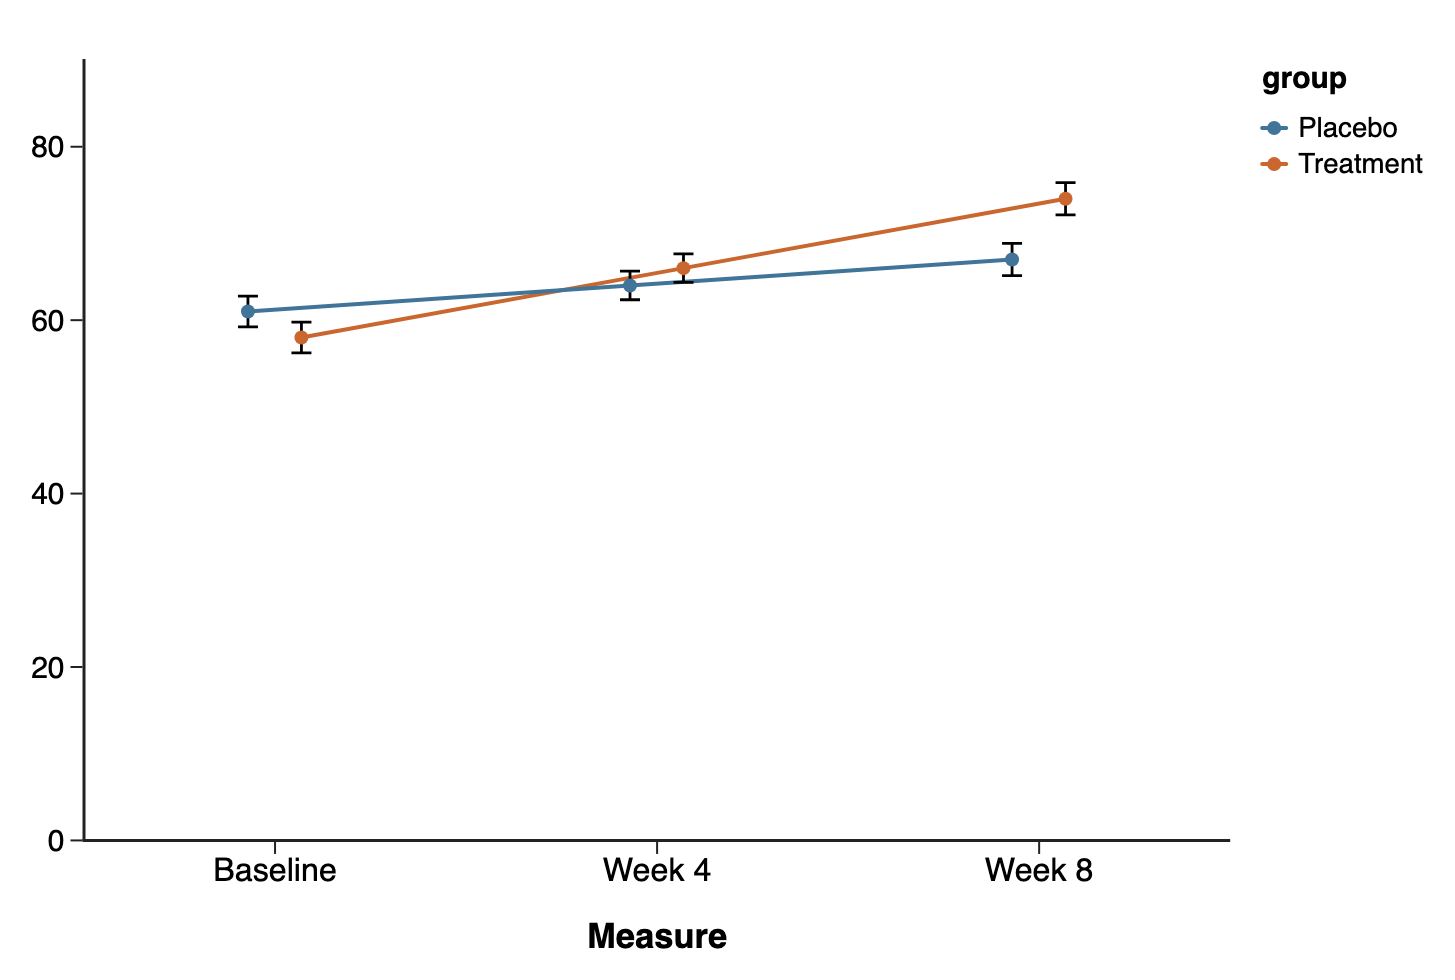
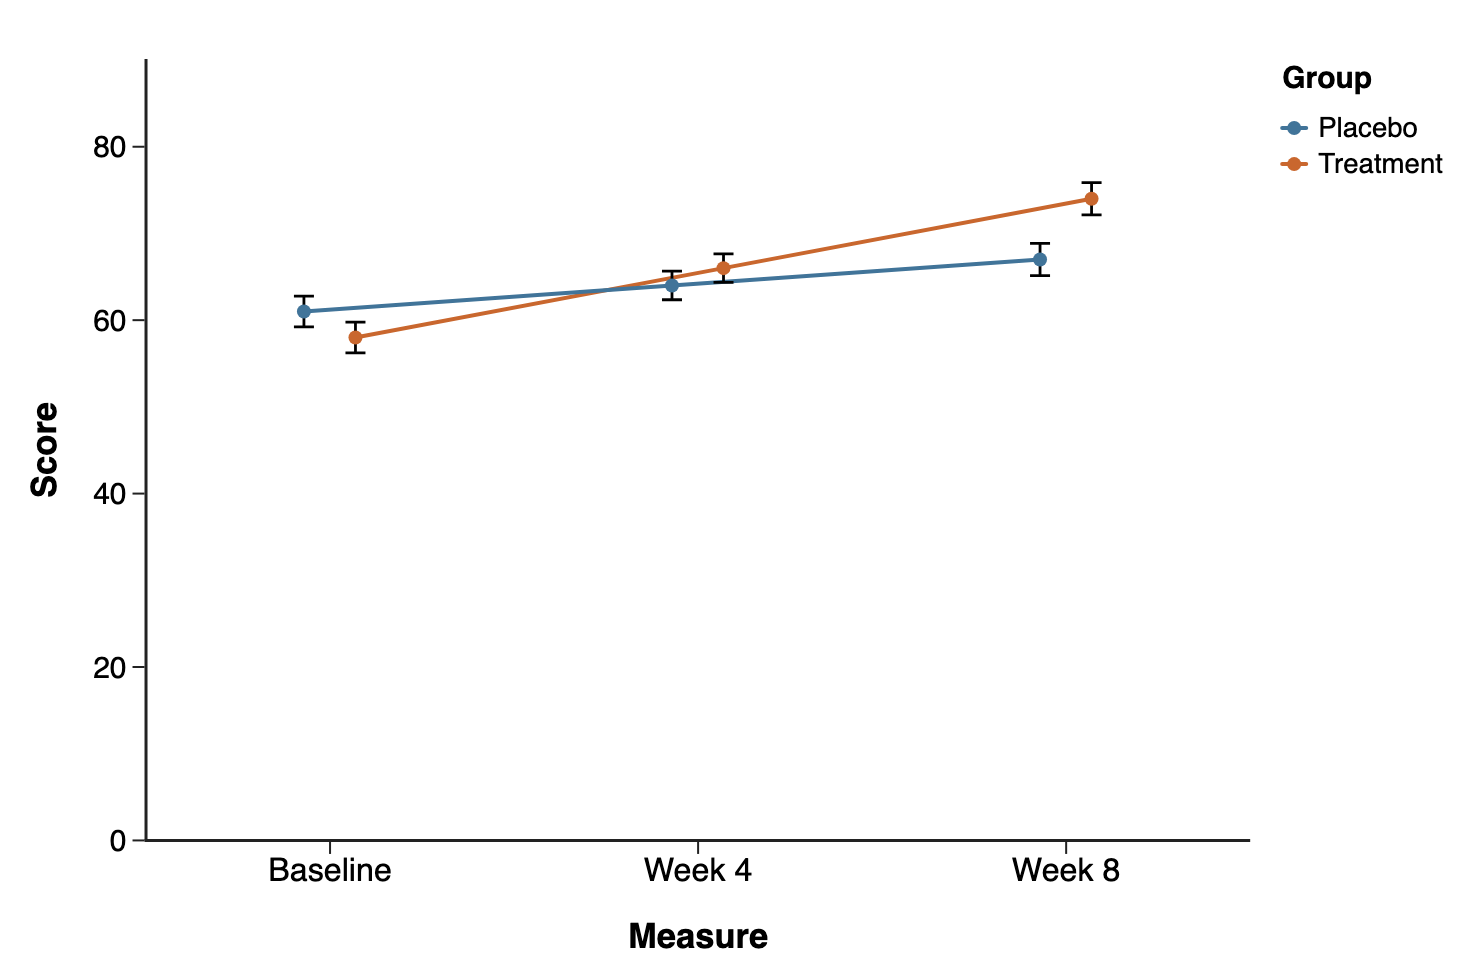
Gallery: every label on every figure starts with a capital
Axis titles, the legend heading and its entries, and the category labels
along the axis. Numeric ticks and percentages start with a digit and are
left as they are.

The fix is in the column names rather than in per-figure title overrides,
because the chart derives its axis titles and its legend heading straight
from them. So a reader who opens the same table in the app sees the same
words the figure shows, and there is one place to change rather than
twelve. Sentence case, not title case: "Reaction time", not "Reaction
Time".

Repeated Measures needed more than a capital letter. It ships no y title
at all by default, deliberately, as a nudge to name your own measure, but
that left the one figure in the gallery with a blank axis and it was the
only one raising the app's own ytitle check. It is now Score, which is
what the nudge was asking for. That is a judgement beyond capitalisation
and is easy to revert if it reads as overreach.

The renderer now asserts this rather than trusting it: any text on the
figure that begins with a lower-case letter fails the run. I checked the
check by dumping what it actually sees, since an assertion that passes
because it matches nothing is worse than no assertion, and this is the
second time on this task that a silently-passing check turned out to be
looking in the wrong place. It reads 7, 5 and 8 word labels on the three
figures that carry the most.

corr-matrix and likert were already fully capitalised, so the two figures
[…]

diff --git a/website/gallery-data.py b/website/gallery-data.py
@@ -231,31 +231,36 @@ rain_rows = ([['Control', v] for v in CTRL] + [['Low dose', v] for v in LOW]
              + [['High dose', v] for v in HIGH])
 
 # ------------------------------------------------------------------- emit
+# Column names are capitalised because the chart derives its axis titles and
+# its legend heading straight from them. Renaming the column is therefore the
+# whole fix: no per-figure title overrides, and a reader who opens the same
+# table in the app sees the labels the figure shows. Sentence case, not title
+# case, so "Reaction time" rather than "Reaction Time".
 DATASETS = {
-    'donut': dict(name='Student majors', header=['major'], rows=donut_rows,
-                  types={'major': 'nominal'},
-                  levels={'major': [m for m, _ in MAJORS]}),
-    'groupedBar': dict(name='Practice and recall', header=['test', 'practice', 'recall'],
+    'donut': dict(name='Student majors', header=['Major'], rows=donut_rows,
+                  types={'Major': 'nominal'},
+                  levels={'Major': [m for m, _ in MAJORS]}),
+    'groupedBar': dict(name='Practice and recall', header=['Test', 'Practice', 'Recall'],
                        rows=bar_rows,
-                       types={'test': 'nominal', 'practice': 'nominal', 'recall': 'continuous'},
-                       levels={'test': ['Immediate', 'One week'],
-                               'practice': ['Massed', 'Spaced']}),
+                       types={'Test': 'nominal', 'Practice': 'nominal', 'Recall': 'continuous'},
+                       levels={'Test': ['Immediate', 'One week'],
+                               'Practice': ['Massed', 'Spaced']}),
     'rmLine': dict(name='Treatment over eight weeks',
-                   header=['group', 'Baseline', 'Week 4', 'Week 8'], rows=rm_rows,
-                   types={'group': 'nominal', 'Baseline': 'continuous',
+                   header=['Group', 'Baseline', 'Week 4', 'Week 8'], rows=rm_rows,
+                   types={'Group': 'nominal', 'Baseline': 'continuous',
                           'Week 4': 'continuous', 'Week 8': 'continuous'},
-                   levels={'group': ['Placebo', 'Treatment']}),
-    'scatter': dict(name='Stress and cortisol', header=['age group', 'stress', 'cortisol'],
+                   levels={'Group': ['Placebo', 'Treatment']}),
+    'scatter': dict(name='Stress and cortisol', header=['Age group', 'Stress', 'Cortisol'],
                     rows=sc_rows,
-                    types={'age group': 'nominal', 'stress': 'continuous',
-                           'cortisol': 'continuous'},
-                    levels={'age group': ['Adolescent', 'Adult']}),
-    'histDensity': dict(name='Reaction times', header=['reaction time'],
+                    types={'Age group': 'nominal', 'Stress': 'continuous',
+                           'Cortisol': 'continuous'},
+                    levels={'Age group': ['Adolescent', 'Adult']}),
+    'histDensity': dict(name='Reaction times', header=['Reaction time'],
                         rows=[[v] for v in rt],
-                        types={'reaction time': 'continuous'}, levels={}),
-    'raincloud': dict(name='Dose and score', header=['condition', 'score'], rows=rain_rows,
-                      types={'condition': 'nominal', 'score': 'continuous'},
-                      levels={'condition': ['Control', 'Low dose', 'High dose']}),
+                        types={'Reaction time': 'continuous'}, levels={}),
+    'raincloud': dict(name='Dose and score', header=['Condition', 'Score'], rows=rain_rows,
+                      types={'Condition': 'nominal', 'Score': 'continuous'},
+                      levels={'Condition': ['Control', 'Low dose', 'High dose']}),
 }
 
 if fail:
